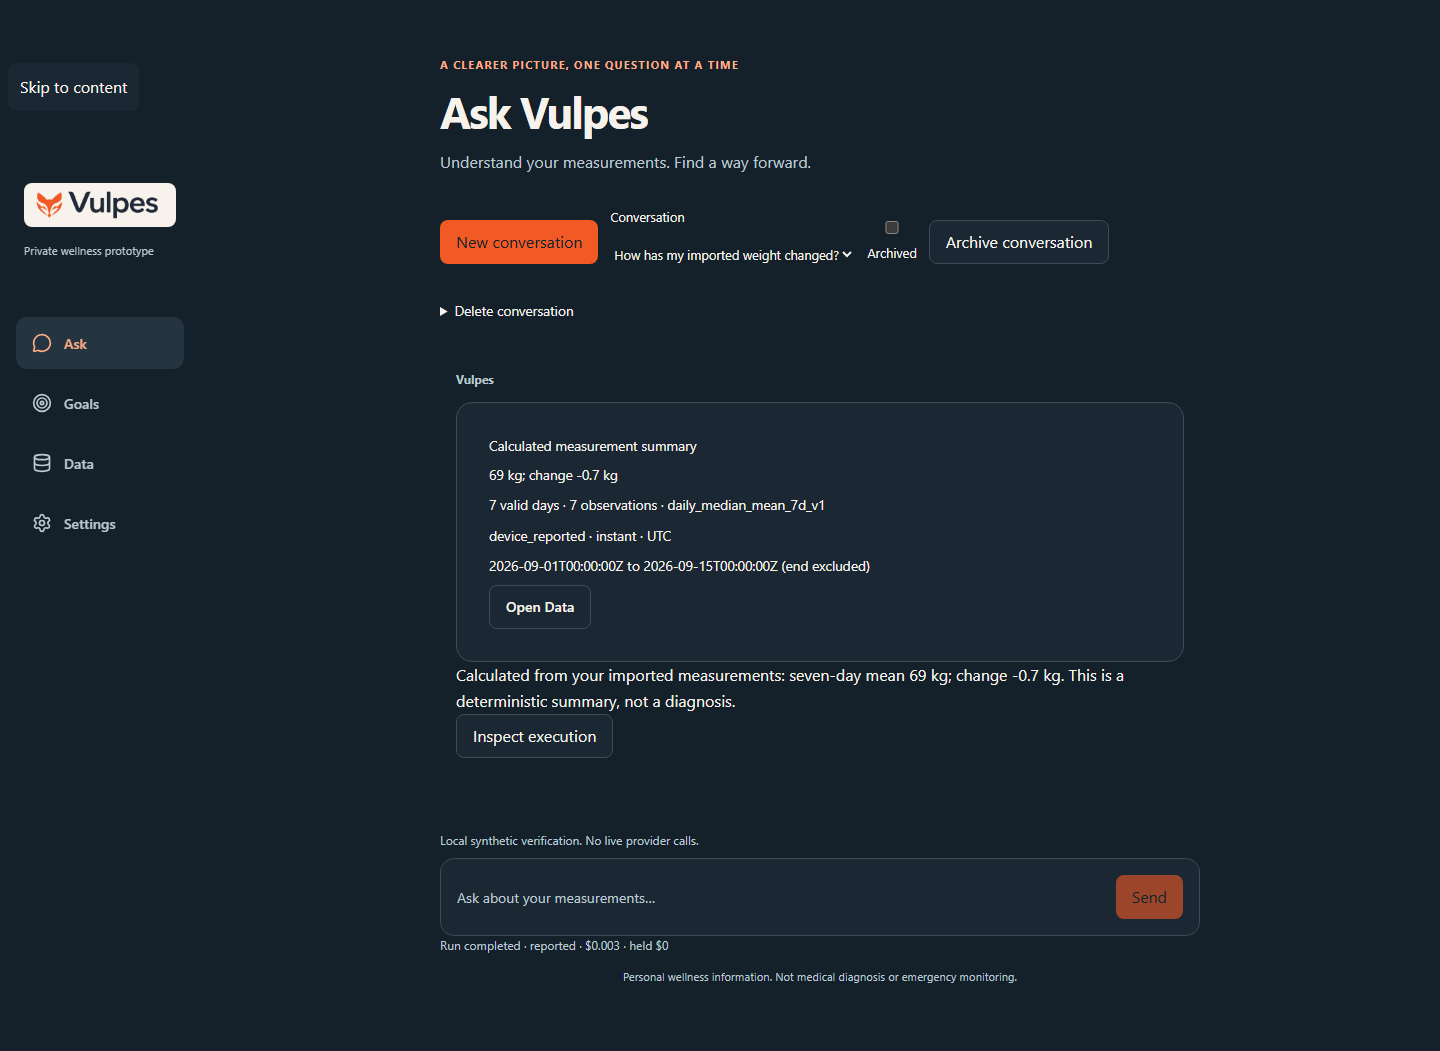
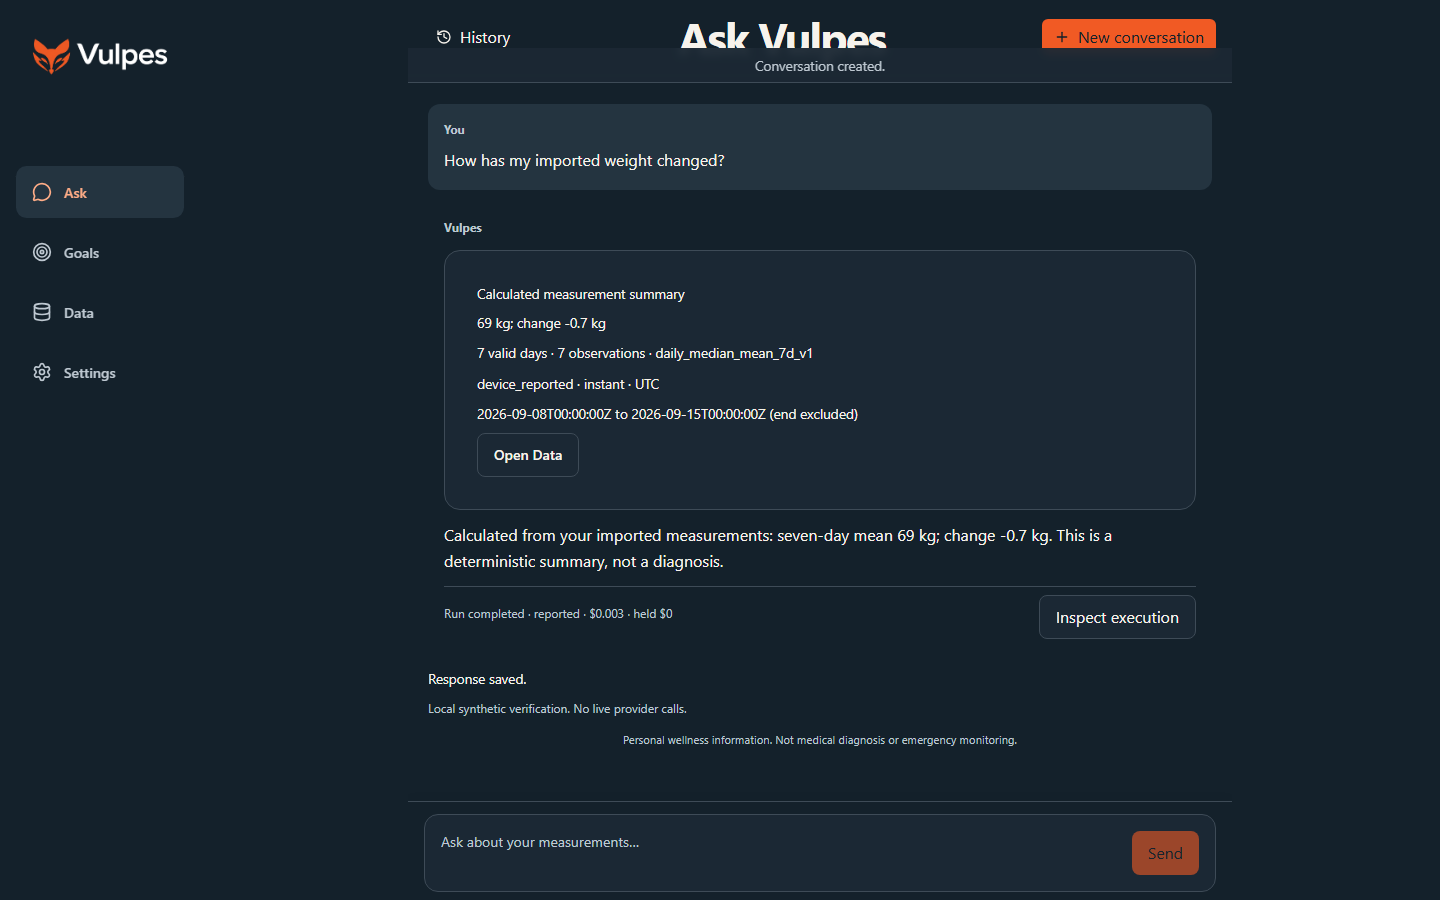
Update release screenshots and refine AI agent attribution in README
- Retake release screenshots from synthetic journey without stray focus rings
- Update sha256 checksums in docs/evidence/release/screenshots.json
- Update AI coding agents section in README to mention Codex, Cursor, and Antigravity

diff --git a/tests/e2e/release-journey.spec.ts b/tests/e2e/release-journey.spec.ts
@@ -86,6 +86,15 @@ test('release journey signs in, imports, asks, inspects, approves, reimports, ex
   await expect(
     page.getByText(/seven-day mean 69 kg; change -0.7 kg/),
   ).toBeVisible();
+  await page.setViewportSize({ width: 1440, height: 900 });
+  await page.emulateMedia({ colorScheme: 'dark', reducedMotion: 'reduce' });
+  await page.evaluate(() => (document.activeElement as HTMLElement)?.blur());
+  await page.screenshot({
+    path: info.outputPath('release-ask-dark.png'),
+    fullPage: true,
+  });
+  await page.setViewportSize({ width: 390, height: 844 });
+  await page.emulateMedia({ colorScheme: 'light', reducedMotion: 'reduce' });
   await page
     .getByRole('button', { name: 'Inspect execution', exact: true })
     .click();

diff --git a/README.md b/README.md
@@ -30,7 +30,7 @@ Data and Goals work with the AI switched off. The repository and CI default to n
 
 ## Built with AI coding agents
 
-Vulpes is developed with AI coding agents, including OpenAI Codex and Claude. The author sets the product direction, writes the specifications, makes the design decisions, and reviews and approves the work. The agents write a large share of the code, tests and documentation.
+Vulpes is developed with AI coding agents, including OpenAI Codex, Cursor, and Antigravity. The author sets the product direction, writes the specifications, makes the design decisions, and reviews and approves the work. The agents write a large share of the code, tests and documentation.
 
 The agents follow the written rules in [AGENTS.md](AGENTS.md), and verification relies on automated tests, specifications and recorded evidence rather than trust in the agent. Material decisions are logged in [implementation decisions](docs/DECISIONS_IMPLEMENTATION.md).
 
